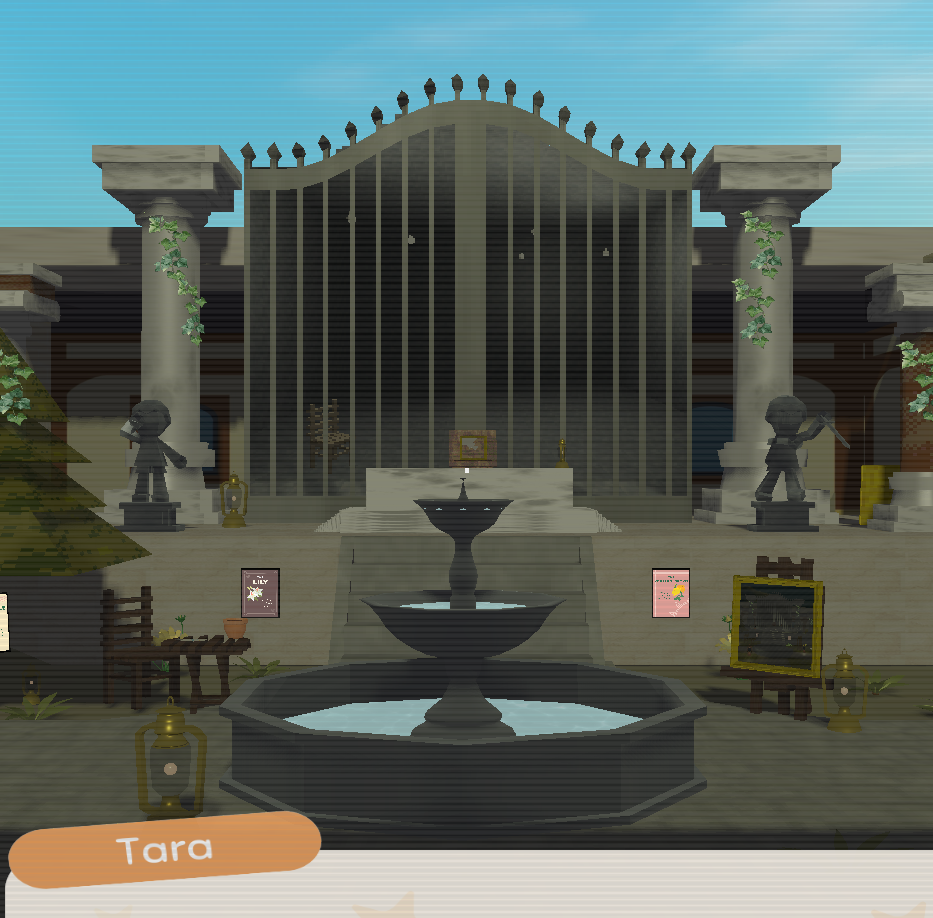
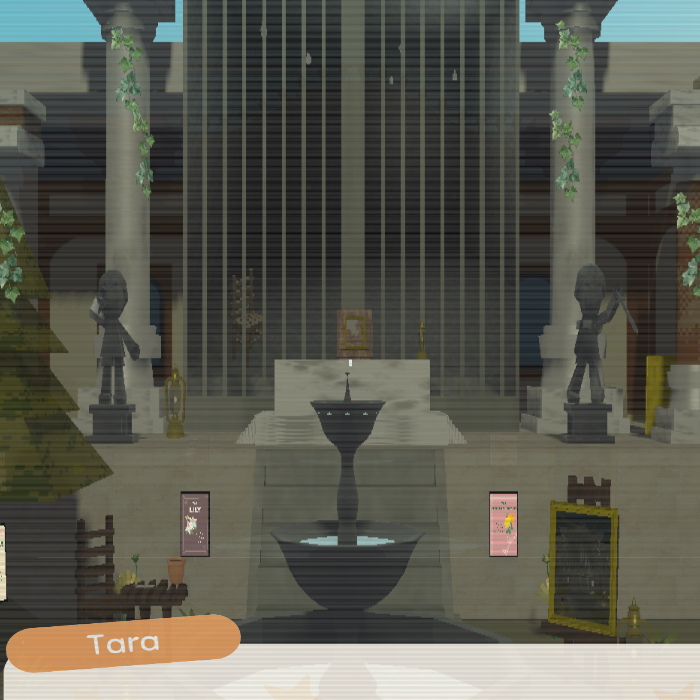
newScale

diff --git a/ImaGE-Script/source/Painting/HoldupUI.cs b/ImaGE-Script/source/Painting/HoldupUI.cs
@@ -62,10 +62,10 @@ public class HoldupUI : Entity
       Vector3 actualScale = bigPicScale;
       actualScale.X = (float)ImageWidth / (float)OgScreenWidth * (float)Input.screenWidth;
 
-      float Scaler = (  (((float)ImageHeight / (float)Input.screenHeight) / (700.0f / 1080.0f)) *
-                        (((float)Input.screenHeight / (float)Input.screenWidth) / (1080.0f / 1920.0f))
+      float Scaler = (  (((float)ImageHeight / 700.0f) / ((float)Input.screenHeight / 1080.0f)) //*
+                      //  (((float)Input.screenHeight / (float)Input.screenWidth) / (1080.0f / 1920.0f))
                         );
-      actualScale.Y = Scaler * bigPicScale.Y * ((float)ImageHeight / (float)Input.screenHeight) / ((float)ImageHeight/(float)OgScreenHeight);
+      actualScale.Y = Scaler * bigPicScale.Y * ((float)Input.screenHeight / (float)OgScreenHeight);
       Vector3 actualPos = bigPicPos;
       actualPos.Y = Scaler * bigPicPos.Y;
 
@@ -110,11 +110,11 @@ public class HoldupUI : Entity
       if (isBigPaintingActive)
       {
         float Scaler = (
-                               (((float)ImageHeight / (float)Input.screenHeight) / (700.0f / 1080.0f)) *
-                               (((float)Input.screenHeight / (float)Input.screenWidth) / (1080.0f / 1920.0f))
+            (((float)ImageHeight / 700.0f) / ((float)Input.screenHeight / 1080.0f))  //*
+                               //(((float)Input.screenHeight / (float)Input.screenWidth) / (1080.0f / 1920.0f))
                              );
         Vector3 actualScale = bigPicScale;
-         actualScale.Y = Scaler * bigPicScale.Y * ((float)ImageHeight / (float)Input.screenHeight) / ((float)ImageHeight/(float)OgScreenHeight);
+        actualScale.Y = Scaler * bigPicScale.Y * ((float)Input.screenHeight / (float)OgScreenHeight);
         Vector3 actualPos = bigPicPos;
         actualPos.Y = Scaler * bigPicPos.Y;
 
@@ -162,11 +162,11 @@ public class HoldupUI : Entity
     if (isBigPaintingActive)
     {
       float Scaler = (
-                             (((float)ImageHeight / (float)Input.screenHeight) / (700.0f / 1080.0f)) *
-                             (((float)Input.screenHeight / (float)Input.screenWidth) / (1080.0f / 1920.0f))
+                             (((float)ImageHeight / 700.0f) / ((float)Input.screenHeight / 1080.0f)) //*
+                             //(((float)Input.screenHeight / (float)Input.screenWidth) / (1080.0f / 1920.0f))
                            );
       Vector3 actualScale = bigPicScale;
-      actualScale.Y = Scaler * bigPicScale.Y * ((float)ImageHeight / (float)Input.screenHeight) / ((float)ImageHeight/(float)OgScreenHeight);
+      actualScale.Y = Scaler * bigPicScale.Y * ((float)Input.screenHeight / (float)OgScreenHeight);
       Vector3 actualPos = bigPicPos;
       actualPos.Y = Scaler * bigPicPos.Y;
 
